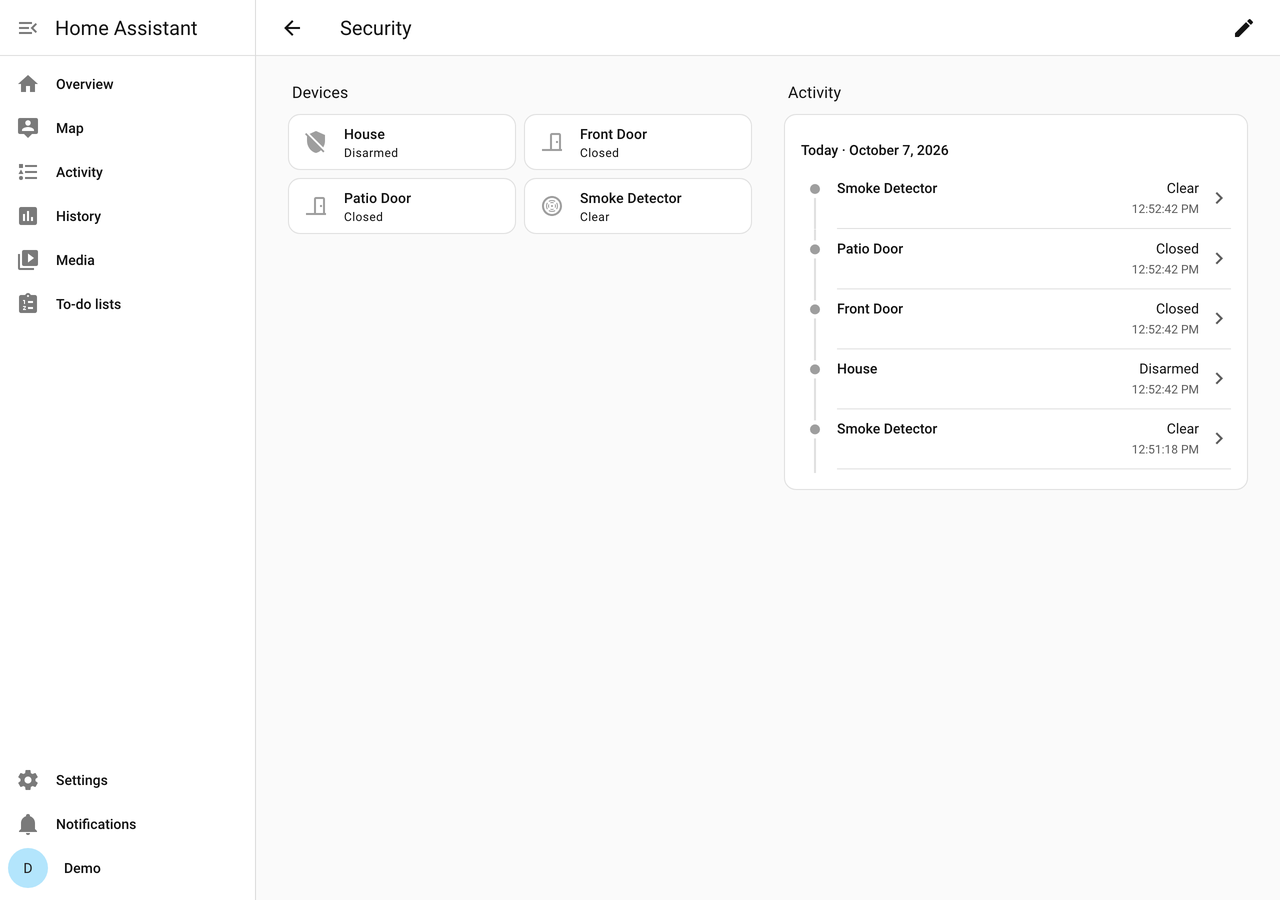
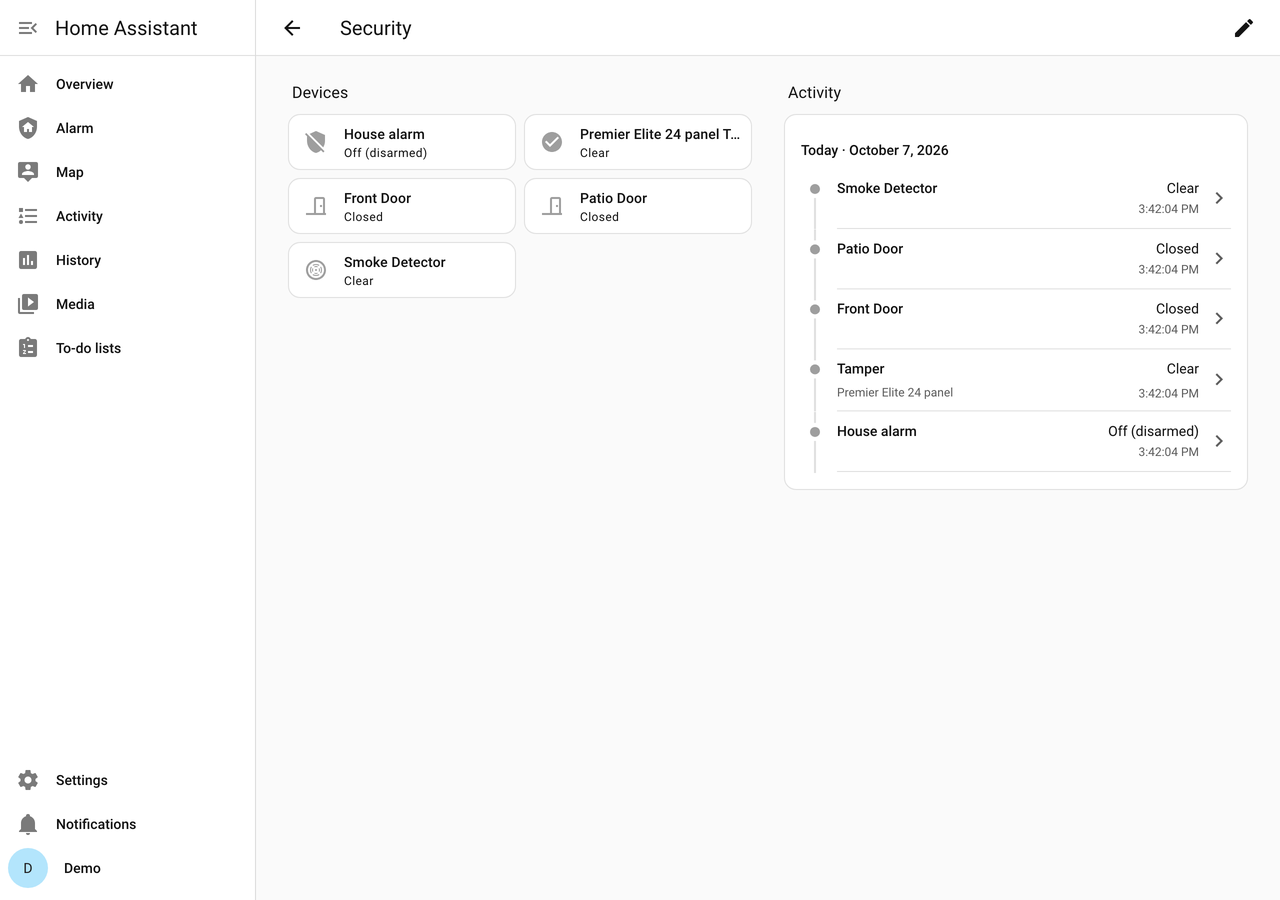
0.2.1: setup's dashboard tick box works; quoted settings in the setup text; 'House alarm' and 'Premier Elite 24 panel' device names; state names (Off (disarmed), Armed: Away...); short entity IDs for the panel sensors

diff --git a/custom_components/texecom/binary_sensor.py b/custom_components/texecom/binary_sensor.py
@@ -73,9 +73,12 @@ async def async_setup_entry(
     async_add_entities(entities)
 
 
-class TexecomZoneSensor(TexecomEntity, BinarySensorEntity):
-    _attr_name = None  # the zone's device name, e.g. "Front Door"
+class TexecomBinarySensor(TexecomEntity, BinarySensorEntity):
     _entity_domain = "binary_sensor"
+
+
+class TexecomZoneSensor(TexecomBinarySensor):
+    _attr_name = None  # the zone's device name, e.g. "Front Door"
 
     def __init__(self, entry: TexecomConfigEntry, panel: TexecomPanel, number: int, device: DeviceInfo) -> None:
         super().__init__(entry, panel, f"zone_{number}", device, panel.zones[number].name)
@@ -98,12 +101,11 @@ class TexecomZoneSensor(TexecomEntity, BinarySensorEntity):
         return attrs
 
 
-class TexecomZoneTamperSensor(TexecomEntity, BinarySensorEntity):
+class TexecomZoneTamperSensor(TexecomBinarySensor):
     _attr_device_class = BinarySensorDeviceClass.TAMPER
     _attr_entity_category = EntityCategory.DIAGNOSTIC
     _attr_entity_registry_enabled_default = False
     _attr_translation_key = "zone_tamper"
-    _entity_domain = "binary_sensor"
 
     def __init__(self, entry: TexecomConfigEntry, panel: TexecomPanel, number: int, device: DeviceInfo) -> None:
         super().__init__(entry, panel, f"zone_{number}_tamper", device, f"{panel.zones[number].name} tamper")
@@ -114,7 +116,7 @@ class TexecomZoneTamperSensor(TexecomEntity, BinarySensorEntity):
         return self.panel.zones[self.number].tampered
 
 
-class TexecomSystemTamperSensor(TexecomEntity, BinarySensorEntity):
+class TexecomSystemTamperSensor(TexecomBinarySensor):
     """On while the panel reports a tamper that isn't a zone: its lid, the
     shared detector tamper circuit, a keypad, the bell box..."""
 
@@ -122,7 +124,7 @@ class TexecomSystemTamperSensor(TexecomEntity, BinarySensorEntity):
     _attr_translation_key = "system_tamper"
 
     def __init__(self, entry: TexecomConfigEntry, panel: TexecomPanel) -> None:
-        super().__init__(entry, panel, "system_tamper")
+        super().__init__(entry, panel, "system_tamper", object_id="tamper")
 
     @property
     def is_on(self) -> bool:
@@ -133,14 +135,14 @@ class TexecomSystemTamperSensor(TexecomEntity, BinarySensorEntity):
         return {"sources": sorted(self.panel.extra.get("tampers", ()))}
 
 
-class TexecomProblemSensor(TexecomEntity, BinarySensorEntity):
+class TexecomProblemSensor(TexecomBinarySensor):
     """On while the panel reports a fault: mains, battery, communication..."""
 
     _attr_device_class = BinarySensorDeviceClass.PROBLEM
     _attr_translation_key = "problem"
 
     def __init__(self, entry: TexecomConfigEntry, panel: TexecomPanel) -> None:
-        super().__init__(entry, panel, "problem")
+        super().__init__(entry, panel, "problem", object_id="problem")
 
     @property
     def is_on(self) -> bool:
@@ -151,27 +153,27 @@ class TexecomProblemSensor(TexecomEntity, BinarySensorEntity):
         return {"sources": sorted(self.panel.extra.get("faults", ()))}
 
 
-class TexecomMainsSensor(TexecomEntity, BinarySensorEntity):
+class TexecomMainsSensor(TexecomBinarySensor):
     """Mains power to the panel (off while it runs on its battery)."""
 
     _attr_device_class = BinarySensorDeviceClass.POWER
     _attr_translation_key = "mains"
 
     def __init__(self, entry: TexecomConfigEntry, panel: TexecomPanel) -> None:
-        super().__init__(entry, panel, "mains")
+        super().__init__(entry, panel, "mains", object_id="mains_power")
 
     @property
     def is_on(self) -> bool:
         return not (self.panel.extra.get("faults", set()) & MAINS_FAULTS)
 
 
-class TexecomConnectionSensor(TexecomEntity, BinarySensorEntity):
+class TexecomConnectionSensor(TexecomBinarySensor):
     _attr_device_class = BinarySensorDeviceClass.CONNECTIVITY
     _attr_entity_category = EntityCategory.DIAGNOSTIC
     _attr_translation_key = "connection"
 
     def __init__(self, entry: TexecomConfigEntry, panel: TexecomPanel) -> None:
-        super().__init__(entry, panel, "connection")
+        super().__init__(entry, panel, "connection", object_id="panel_connection")
 
     @property
     def available(self) -> bool:

diff --git a/custom_components/texecom/alarm_control_panel.py b/custom_components/texecom/alarm_control_panel.py
@@ -16,7 +16,7 @@ from homeassistant.helpers.entity_platform import AddConfigEntryEntitiesCallback
 
 from . import TexecomConfigEntry
 from .const import CONF_ALARM_CODE, CONF_CODE_ARM_REQUIRED, DOMAIN
-from .entity import TexecomEntity, child_device_info
+from .entity import TexecomEntity, child_device_info, nice_name
 from .panel import PanelError, TexecomPanel
 
 FEATURE_FOR_MODE = {
@@ -34,12 +34,13 @@ async def async_setup_entry(
 
 
 class TexecomAreaPanel(TexecomEntity, AlarmControlPanelEntity):
-    _attr_name = None  # the area's device name, e.g. "House"
+    _attr_name = None  # the area's device name, e.g. "House alarm"
+    _attr_translation_key = "area"  # state names, e.g. "Off (disarmed)"
     _entity_domain = "alarm_control_panel"
 
     def __init__(self, hass: HomeAssistant, entry: TexecomConfigEntry, panel: TexecomPanel, number: int) -> None:
         name = panel.areas[number].name
-        device = child_device_info(hass, entry, f"area_{number}", name, f"Area {number}")
+        device = child_device_info(hass, entry, f"area_{number}", f"{nice_name(name)} alarm", f"Alarm area {number}")
         super().__init__(entry, panel, f"area_{number}", device, name)
         self.number = number
         features = AlarmControlPanelEntityFeature(0)

diff --git a/custom_components/texecom/sensor.py b/custom_components/texecom/sensor.py
@@ -33,6 +33,7 @@ async def async_setup_entry(
 
 
 class TexecomPowerSensor(TexecomEntity, SensorEntity):
+    _entity_domain = "sensor"
     _attr_entity_category = EntityCategory.DIAGNOSTIC
     _attr_state_class = SensorStateClass.MEASUREMENT
 
@@ -46,7 +47,7 @@ class TexecomPowerSensor(TexecomEntity, SensorEntity):
         unit: str,
         enabled: bool,
     ) -> None:
-        super().__init__(entry, panel, key)
+        super().__init__(entry, panel, key, object_id=key)
         self._attribute = attribute
         self._attr_translation_key = key
         self._attr_device_class = device_class
@@ -68,11 +69,12 @@ class TexecomPowerSensor(TexecomEntity, SensorEntity):
 class TexecomDisplaySensor(TexecomEntity, SensorEntity):
     """The text on the keypads (checked every 30 seconds)."""
 
+    _entity_domain = "sensor"
     _attr_entity_category = EntityCategory.DIAGNOSTIC
     _attr_translation_key = "display"
 
     def __init__(self, entry: TexecomConfigEntry, panel: TexecomPanel) -> None:
-        super().__init__(entry, panel, "display")
+        super().__init__(entry, panel, "display", object_id="keypad_display")
 
     @property
     def available(self) -> bool:

diff --git a/custom_components/texecom/config_flow.py b/custom_components/texecom/config_flow.py
@@ -293,9 +293,9 @@ class TexecomConfigFlow(ConfigFlow, domain=DOMAIN):
             if error := _arm_modes_error(user_input):
                 errors["base"] = error
             else:
-                return self.async_create_entry(
-                    title=self._title(), data=self._data, options=_arm_mode_options(user_input)
-                )
+                # The dashboard is built once the entities exist (in setup).
+                data = {**self._data, CONF_CREATE_DASHBOARD: bool(user_input.get(CONF_CREATE_DASHBOARD))}
+                return self.async_create_entry(title=self._title(), data=data, options=_arm_mode_options(user_input))
         placeholders = {"zones": "", "areas": ""}
         if not crestron:
             placeholders = {

diff --git a/custom_components/texecom/entity.py b/custom_components/texecom/entity.py
@@ -33,7 +33,8 @@ def panel_device_info(entry: ConfigEntry, panel: TexecomPanel) -> DeviceInfo:
         manufacturer="Texecom",
         model=f"{info.model} {info.zones}" if is_connect and info.zones else "Premier Elite",
         sw_version=info.firmware if is_connect else None,
-        name=entry.title,
+        # Easy to pick out among the zones when assigning rooms.
+        name=f"{info.model} {info.zones} panel" if is_connect and info.zones else "Premier Elite panel",
     )
 
 

diff --git a/README.md b/README.md
@@ -57,7 +57,9 @@ Enter the SmartCom's **IP address**, leave the **port** at **10001**, and enter 
 
 <img src="https://raw.githubusercontent.com/metaljay/ha-texecom/main/docs/images/setup-3-arm-modes.png" width="420" alt="Found your panel: choose the part arms for Night and Home">
 
-Home Assistant shows what it found. **Away** always sets the whole alarm. Choose which **part arm** sits behind **Night** and **Home** (or *Not used* to hide that button). See [Know your part arms](#part-arms) if you're unsure.
+Home Assistant shows what it found. **'Away'** always arms the whole alarm. Choose which **part arm** sits behind **'Night'** and **'Home'** (or *'Not used'* to hide that button). See [Know your part arms](#part-arms) if you're unsure.
+
+Your **area** (usually one, named by your installer, e.g. *House*) becomes the **alarm**: a device called *House alarm*. The panel itself appears as *Premier Elite 24 panel*, and each zone as its own device.
 
 Leave **Add an Alarm dashboard to the sidebar** ticked, and click **Submit**. That's it. 🎉
 
@@ -87,6 +89,7 @@ When the panel is part armed from the keypad, Home Assistant shows the mode you 
 
 <img src="https://raw.githubusercontent.com/metaljay/ha-texecom/main/docs/images/security.png" width="760" alt="Home Assistant's Security page showing the alarm, doors and smoke detector">
 
+- **States** read *Off (disarmed)*, *Arming…*, *Armed: Away* / *Night* / *Home*, *Entry delay* and *Alarm!*.
 - **The Alarm dashboard** (in the sidebar) has the arm buttons, the last day's activity, panel health and every zone. Edit it like any dashboard, or rebuild it from **Configure → Create or refresh the Alarm dashboard**.
 - **Home Assistant's own Overview** picks the alarm up as well: its **Security** summary lists the alarm, doors and smoke detectors, and each room shows its zones.
 - **Apple Home**: see [Apple Home](#apple-home).
